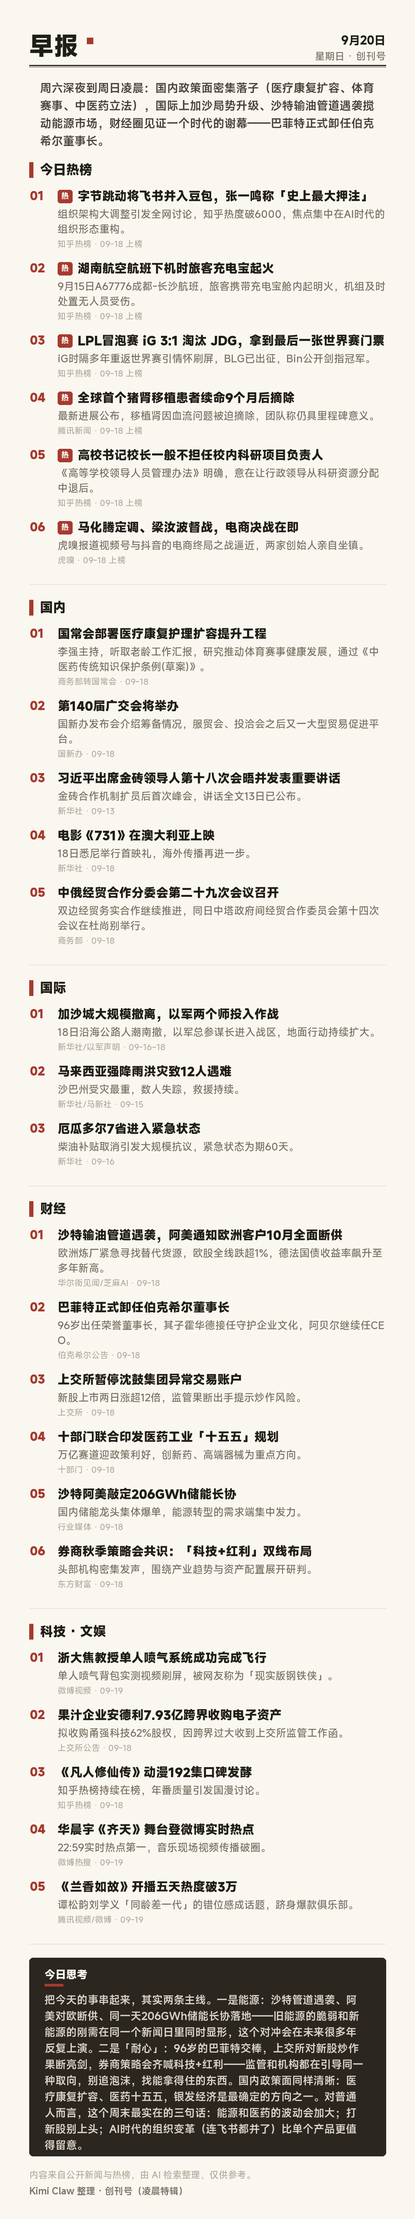
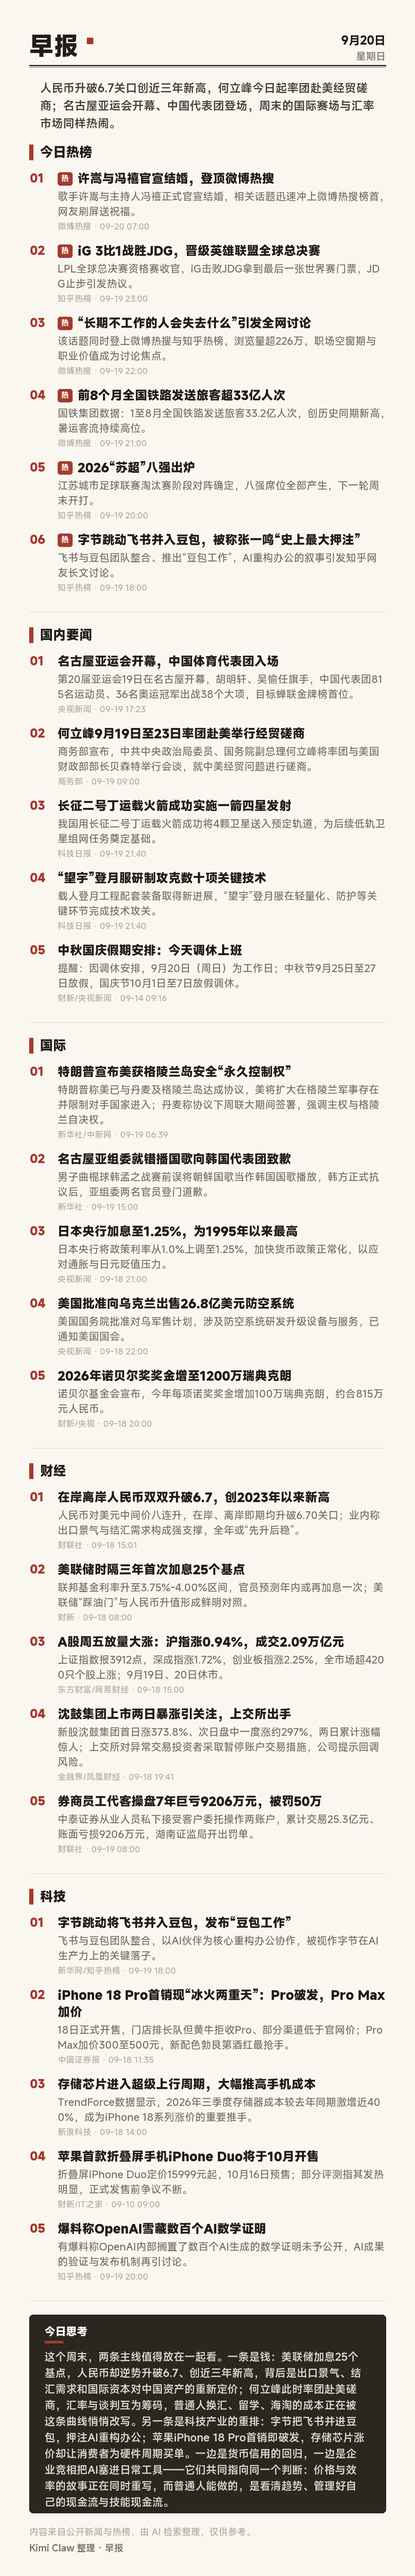
早报归档 2026-09-20

diff --git a/entries.js b/entries.js
@@ -2,88 +2,93 @@ const ENTRIES = [
   {
     "date": "2026-09-20",
     "weekday": "周日",
-    "weekday_label": "星期日 · 创刊号",
-    "overview": "周六深夜到周日凌晨：国内政策面密集落子（医疗康复扩容、体育赛事、中医药立法），国际上加沙局势升级、沙特输油管道遇袭搅动能源市场，财经圈见证一个时代的谢幕——巴菲特正式卸任伯克希尔董事长。",
+    "weekday_label": "星期日",
+    "overview": "人民币升破6.7关口创近三年新高，何立峰今日起率团赴美经贸磋商；名古屋亚运会开幕、中国代表团登场，周末的国际赛场与汇率市场同样热闹。",
     "sections": [
       {
         "title": "今日热榜",
         "items": [
           {
-            "headline": "字节跳动将飞书并入豆包，张一鸣称「史上最大押注」",
-            "summary": "组织架构大调整引发全网讨论，知乎热度破6000，焦点集中在AI时代的组织形态重构。",
+            "headline": "许嵩与冯禧官宣结婚，登顶微博热搜",
+            "summary": "歌手许嵩与主持人冯禧正式官宣结婚，相关话题迅速冲上微博热搜榜首，网友刷屏送祝福。",
+            "source": "微博热搜",
+            "time": "09-20 07:00",
+            "hot": true
+          },
+          {
+            "headline": "iG 3比1战胜JDG，晋级英雄联盟全球总决赛",
+            "summary": "LPL全球总决赛资格赛收官，iG击败JDG拿到最后一张世界赛门票，JDG止步引发热议。",
             "source": "知乎热榜",
-            "time": "09-18 上榜",
+            "time": "09-19 23:00",
             "hot": true
           },
           {
-            "headline": "湖南航空航班下机时旅客充电宝起火",
-            "summary": "9月15日A67776成都-长沙航班，旅客携带充电宝舱内起明火，机组及时处置无人员受伤。",
+            "headline": "“长期不工作的人会失去什么”引发全网讨论",
+            "summary": "该话题同时登上微博热搜与知乎热榜，浏览量超226万，职场空窗期与职业价值成为讨论焦点。",
+            "source": "微博热搜",
+            "time": "09-19 22:00",
+            "hot": true
+          },
+          {
+            "headline": "前8个月全国铁路发送旅客超33亿人次",
+            "summary": "国铁集团数据：1至8月全国铁路发送旅客33.2亿人次，创历史同期新高，暑运客流持续高位。",
+            "source": "微博热搜",
+            "time": "09-19 21:00",
+            "hot": true
+          },
+          {
+            "headline": "2026“苏超”八强出炉",
+            "summary": "江苏城市足球联赛淘汰赛阶段对阵确定，八强席位全部产生，下一轮周末开打。",
             "source": "知乎热榜",
-            "time": "09-18 上榜",
+            "time": "09-19 20:00",
             "hot": true
           },
           {
-            "headline": "LPL冒泡赛 iG 3:1 淘汰 JDG，拿到最后一张世界赛门票",
-            "summary": "iG时隔多年重返世界赛引情怀刷屏，BLG已出征，Bin公开剑指冠军。",
+            "headline": "字节跳动飞书并入豆包，被称张一鸣“史上最大押注”",
+            "summary": "飞书与豆包团队整合、推出“豆包工作”，AI重构办公的叙事引发知乎网友长文讨论。",
             "source": "知乎热榜",
-            "time": "09-18 上榜",
-            "hot": true
-          },
-          {
-            "headline": "全球首个猪肾移植患者续命9个月后摘除",
-            "summary": "最新进展公布，移植肾因血流问题被迫摘除，团队称仍具里程碑意义。",
-            "source": "腾讯新闻",
-            "time": "09-18 上榜",
-            "hot": true
-          },
-          {
-            "headline": "高校书记校长一般不担任校内科研项目负责人",
-            "summary": "《高等学校领导人员管理办法》明确，意在让行政领导从科研资源分配中退后。",
-            "source": "知乎热榜",
-            "time": "09-18 上榜",
-            "hot": true
-          },
-          {
-            "headline": "马化腾定调、梁汝波督战，电商决战在即",
-            "summary": "虎嗅报道视频号与抖音的电商终局之战逼近，两家创始人亲自坐镇。",
-            "source": "虎嗅",
-            "time": "09-18 上榜",
+            "time": "09-19 18:00",
             "hot": true
           }
         ]
       },
       {
-        "title": "国内",
+        "title": "国内要闻",
         "items": [
           {
-            "headline": "国常会部署医疗康复护理扩容提升工程",
-            "summary": "李强主持，听取老龄工作汇报，研究推动体育赛事健康发展，通过《中医药传统知识保护条例(草案)》。",
-            "source": "商务部转国常会",
-            "time": "09-18"
+            "headline": "名古屋亚运会开幕，中国体育代表团入场",
+            "summary": "第20届亚运会19日在名古屋开幕，胡明轩、吴愉任旗手，中国代表团815名运动员、36名奥运冠军出战38个大项，目标蝉联金牌榜首位。",
+            "source": "央视新闻",
+            "time": "09-19 17:23",
+            "hot": false
           },
           {
-            "headline": "第140届广交会将举办",
-            "summary": "国新办发布会介绍筹备情况，服贸会、投洽会之后又一大型贸易促进平台。",
-            "source": "国新办",
-            "time": "09-18"
-          },
-          {
-            "headline": "习近平出席金砖领导人第十八次会晤并发表重要讲话",
-            "summary": "金砖合作机制扩员后首次峰会，讲话全文13日已公布。",
-            "source": "新华社",
-            "time": "09-13"
-          },
-          {
-            "headline": "电影《731》在澳大利亚上映",
-            "summary": "18日悉尼举行首映礼，海外传播再进一步。",
-            "source": "新华社",
-            "time": "09-18"
-          },
-          {
-            "headline": "中俄经贸合作分委会第二十九次会议召开",
-            "summary": "双边经贸务实合作继续推进，同日中塔政府间经贸合作委员会第十四次会议在杜尚别举行。",
+            "headline": "何立峰9月19日至23日率团赴美举行经贸磋商",
+            "summary": "商务部宣布，中共中央政治局委员、国务院副总理何立峰将率团与美国财政部部长贝森特举行会谈，就中美经贸问题进行磋商。",
             "source": "商务部",
-            "time": "09-18"
+            "time": "09-19 09:00",
+            "hot": false
+          },
+          {
+            "headline": "长征二号丁运载火箭成功实施一箭四星发射",
+            "summary": "我国用长征二号丁运载火箭成功将4颗卫星送入预定轨道，为后续低轨卫星组网任务奠定基础。",
+            "source": "科技日报",
+            "time": "09-19 21:40",
+            "hot": false
+          },
+          {
+            "headline": "“望宇”登月服研制攻克数十项关键技术",
+            "summary": "载人登月工程配套装备取得新进展，“望宇”登月服在轻量化、防护等关键环节完成技术攻关。",
+            "source": "科技日报",
+            "time": "09-19 21:40",
+            "hot": false
+          },
+          {
+            "headline": "中秋国庆假期安排：今天调休上班",
+            "summary": "提醒：因调休安排，9月20日（周日）为工作日；中秋节9月25日至27日放假，国庆节10月1日至7日放假调休。",
+            "source": "财新/央视新闻",
+            "time": "09-14 09:16",
+            "hot": false
           }
         ]
       },
@@ -91,22 +96,39 @@ const ENTRIES = [
         "title": "国际",
         "items": [
           {
-            "headline": "加沙城大规模撤离，以军两个师投入作战",
-            "summary": "18日沿海公路人潮南撤，以军总参谋长进入战区，地面行动持续扩大。",
-            "source": "新华社/以军声明",
-            "time": "09-16~18"
+            "headline": "特朗普宣布美获格陵兰岛安全“永久控制权”",
+            "summary": "特朗普称美已与丹麦及格陵兰岛达成协议，美将扩大在格陵兰军事存在并限制对手国家进入；丹麦称协议下周联大期间签署，强调主权与格陵兰自决权。",
+            "source": "新华社/中新网",
+            "time": "09-19 06:39",
+            "hot": false
           },
           {
-            "headline": "马来西亚强降雨洪灾致12人遇难",
-            "summary": "沙巴州受灾最重，数人失踪，救援持续。",
-            "source": "新华社/马新社",
-            "time": "09-15"
-          },
-          {
-            "headline": "厄瓜多尔7省进入紧急状态",
-            "summary": "柴油补贴取消引发大规模抗议，紧急状态为期60天。",
+            "headline": "名古屋亚组委就错播国歌向韩国代表团致歉",
+            "summary": "男子曲棍球韩孟之战赛前误将朝鲜国歌当作韩国国歌播放，韩方正式抗议后，亚组委两名官员登门道歉。",
             "source": "新华社",
-            "time": "09-16"
+            "time": "09-19 15:00",
+            "hot": false
+          },
+          {
+            "headline": "日本央行加息至1.25%，为1995年以来最高",
+            "summary": "日本央行将政策利率从1.0%上调至1.25%，加快货币政策正常化，以应对通胀与日元贬值压力。",
+            "source": "央视新闻",
+            "time": "09-18 21:00",
+            "hot": false
+          },
+          {
+            "headline": "美国批准向乌克兰出售26.8亿美元防空系统",
+            "summary": "美国国务院批准对乌军售计划，涉及防空系统研发升级设备与服务，已通知美国国会。",
+            "source": "央视新闻",
+            "time": "09-18 22:00",
+            "hot": false
+          },
+          {
+            "headline": "2026年诺贝尔奖奖金增至1200万瑞典克朗",
+            "summary": "诺贝尔基金会宣布，今年每项诺奖奖金增加100万瑞典克朗，约合815万元人民币。",
+            "source": "财新/央视",
+            "time": "09-18 20:00",
+            "hot": false
           }
         ]
       },
@@ -114,82 +136,86 @@ const ENTRIES = [
         "title": "财经",
         "items": [
           {
-            "headline": "沙特输油管道遇袭，阿美通知欧洲客户10月全面断供",
-            "summary": "欧洲炼厂紧急寻找替代货源，欧股全线跌超1%，德法国债收益率飙升至多年新高。",
-            "source": "华尔街见闻/芝麻AI",
-            "time": "09-18"
+            "headline": "在岸离岸人民币双双升破6.7，创2023年以来新高",
+            "summary": "人民币对美元中间价八连升，在岸、离岸即期均升破6.70关口；业内称出口景气与结汇需求构成强支撑，全年或“先升后稳”。",
+            "source": "财联社",
+            "time": "09-18 15:01",
+            "hot": false
           },
           {
-            "headline": "巴菲特正式卸任伯克希尔董事长",
-            "summary": "96岁出任荣誉董事长，其子霍华德接任守护企业文化，阿贝尔继续任CEO。",
-            "source": "伯克希尔公告",
-            "time": "09-18"
+            "headline": "美联储时隔三年首次加息25个基点",
+            "summary": "联邦基金利率升至3.75%-4.00%区间，官员预测年内或再加息一次；美联储“踩油门”与人民币升值形成鲜明对照。",
+            "source": "财新",
+            "time": "09-18 08:00",
+            "hot": false
           },
           {
-            "headline": "上交所暂停沈鼓集团异常交易账户",
-            "summary": "新股上市两日涨超12倍，监管果断出手提示炒作风险。",
-            "source": "上交所",
-            "time": "09-18"
+            "headline": "A股周五放量大涨：沪指涨0.94%，成交2.09万亿元",
+            "summary": "上证指数报3912点，深成指涨1.72%，创业板指涨2.25%，全市场超4200只个股上涨；9月19日、20日休市。",
+            "source": "东方财富/网易财经",
+            "time": "09-18 15:00",
+            "hot": false
           },
           {
-            "headline": "十部门联合印发医药工业「十五五」规划",
-            "summary": "万亿赛道迎政策利好，创新药、高端器械为重点方向。",
-            "source": "十部门",
-            "time": "09-18"
+            "headline": "沈鼓集团上市两日暴涨引关注，上交所出手",
+            "summary": "新股沈鼓集团首日涨373.8%、次日盘中一度涨约297%，两日累计涨幅惊人；上交所对异常交易投资者采取暂停账户交易措施，公司提示回调风险。",
+            "source": "金融界/凤凰财经",
+            "time": "09-18 19:41",
+            "hot": false
           },
           {
-            "headline": "沙特阿美敲定206GWh储能长协",
-            "summary": "国内储能龙头集体爆单，能源转型的需求端集中发力。",
-            "source": "行业媒体",
-            "time": "09-18"
-          },
-          {
-            "headline": "券商秋季策略会共识：「科技+红利」双线布局",
-            "summary": "头部机构密集发声，围绕产业趋势与资产配置展开研判。",
-            "source": "东方财富",
-            "time": "09-18"
+            "headline": "券商员工代客操盘7年巨亏9206万元，被罚50万",
+            "summary": "中泰证券从业人员私下接受客户委托操作两账户，累计交易25.3亿元、账面亏损9206万元，湖南证监局开出罚单。",
+            "source": "财联社",
+            "time": "09-19 08:00",
+            "hot": false
           }
         ]
       },
       {
-        "title": "科技 · 文娱",
+        "title": "科技",
         "items": [
           {
-            "headline": "浙大焦教授单人喷气系统成功完成飞行",
-            "summary": "单人喷气背包实测视频刷屏，被网友称为「现实版钢铁侠」。",
-            "source": "微博视频",
-            "time": "09-19"
+            "headline": "字节跳动将飞书并入豆包，发布“豆包工作”",
+            "summary": "飞书与豆包团队整合，以AI伙伴为核心重构办公协作，被视作字节在AI生产力上的关键落子。",
+            "source": "新华网/知乎热榜",
+            "time": "09-19 18:00",
+            "hot": false
           },
           {
-            "headline": "果汁企业安德利7.93亿跨界收购电子资产",
-            "summary": "拟收购甬强科技62%股权，因跨界过大收到上交所监管工作函。",
-            "source": "上交所公告",
-            "time": "09-18"
+            "headline": "iPhone 18 Pro首销现“冰火两重天”：Pro破发，Pro Max加价",
+            "summary": "18日正式开售，门店排长队但黄牛拒收Pro、部分渠道低于官网价；Pro Max加价300至500元，新配色勃艮第酒红最抢手。",
+            "source": "中国证券报",
+            "time": "09-18 11:35",
+            "hot": false
           },
           {
-            "headline": "《凡人修仙传》动漫192集口碑发酵",
-            "summary": "知乎热榜持续在榜，年番质量引发国漫讨论。",
+            "headline": "存储芯片进入超级上行周期，大幅推高手机成本",
+            "summary": "TrendForce数据显示，2026年三季度存储器成本较去年同期激增近400%，成为iPhone 18系列涨价的重要推手。",
+            "source": "新浪科技",
+            "time": "09-18 14:00",
+            "hot": false
+          },
+          {
+            "headline": "苹果首款折叠屏手机iPhone Duo将于10月开售",
+            "summary": "折叠屏iPhone Duo定价15999元起，10月16日预售；部分评测指其发热明显，正式发售前争议不断。",
+            "source": "财新/IT之家",
+            "time": "09-10 09:00",
+            "hot": false
+          },
+          {
+            "headline": "爆料称OpenAI雪藏数百个AI数学证明",
+            "summary": "有爆料称OpenAI内部搁置了数百个AI生成的数学证明未予公开，AI成果的验证与发布机制再引讨论。",
             "source": "知乎热榜",
-            "time": "09-18"
-          },
-          {
-            "headline": "华晨宇《齐天》舞台登微博实时热点",
-            "summary": "22:59实时热点第一，音乐现场视频传播破圈。",
-            "source": "微博热搜",
-            "time": "09-19"
-          },
-          {
-            "headline": "《兰香如故》开播五天热度破3万",
-            "summary": "谭松韵刘学义「同龄差一代」的错位感成话题，跻身爆款俱乐部。",
-            "source": "腾讯视频/微博",
-            "time": "09-19"
+            "time": "09-19 20:00",
+            "hot": false
           }
         ]
       }
     ],
-    "thought": "把今天的事串起来，其实两条主线。一是能源：沙特管道遇袭、阿美对欧断供、同一天206GWh储能长协落地——旧能源的脆弱和新能源的刚需在同一个新闻日里同时显形，这个对冲会在未来很多年反复上演。二是「耐心」：96岁的巴菲特交棒，上交所对新股炒作果断亮剑，券商策略会齐喊科技+红利——监管和机构都在引导同一种取向，别追泡沫，找能拿得住的东西。国内政策面同样清晰：医疗康复扩容、医药十五五，银发经济是最确定的方向之一。对普通人而言，这个周末最实在的三句话：能源和医药的波动会加大；打新股别上头；AI时代的组织变革（连飞书都并了）比单个产品更值得留意。",
+    "thought": "这个周末，两条主线值得放在一起看。一条是钱：美联储加息25个基点，人民币却逆势升破6.7、创近三年新高，背后是出口景气、结汇需求和国际资本对中国资产的重新定价；何立峰此时率团赴美磋商，汇率与谈判互为筹码，普通人换汇、留学、海淘的成本正在被这条曲线悄悄改写。另一条是科技产业的重排：字节把飞书并进豆包，押注AI重构办公；苹果iPhone 18 Pro首销即破发，存储芯片涨价却让消费者为硬件周期买单。一边是货币信用的回归，一边是企业竞相把AI塞进日常工具——它们共同指向同一个判断：价格与效率的故事正在同时重写，而普通人能做的，是看清趋势、管理好自己的现金流与技能现金流。",
     "note": "内容来自公开新闻与热榜，由 AI 检索整理，仅供参考。",
-    "sign": "Kimi Claw 整理 · 创刊号（凌晨特辑）",
+    "sign": "Kimi Claw 整理 · 早报",
     "image": "images/2026-09-20.png",
     "quotes": []
   }
